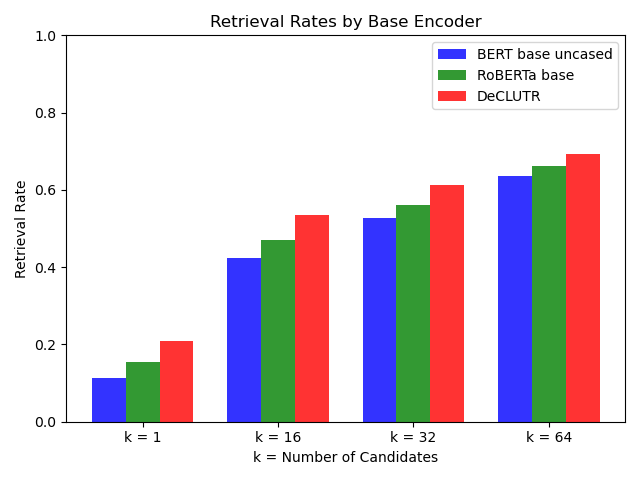
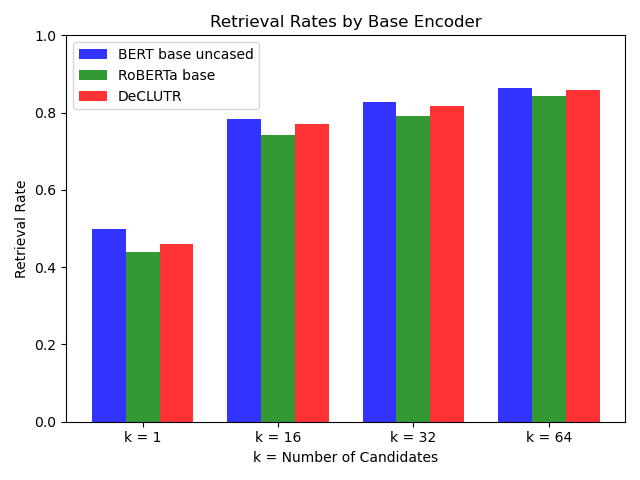
Minor clean up. Generate plots.

diff --git a/src/train_zeshel.py b/src/train_zeshel.py
@@ -33,7 +33,7 @@ def train_zeshel(work_dir: str,
                            base_model_type=base_model_type)
     print('Training examples:', len(trainset))
     print('Validation examples:', len(valset))
-    valset = [valset[i] for i in range(100)]
+    valset = [valset[i] for i in range(500)]
     trainloader = DataLoader(trainset, batch_size=batch_size, num_workers=12, shuffle=True)
     valloader = torch.utils.data.DataLoader(valset, batch_size=batch_size, num_workers=12, shuffle=True)
 
@@ -47,7 +47,7 @@ def train_zeshel(work_dir: str,
         save_top_k=2,
         verbose=True,
         dirpath=os.path.join(work_dir, f'checkpoints'),
-        filename='{epoch}-{val_loss:.3f}' + f'_{base_model_type}_{datetime.now().strftime("%m_%d_%H%M_%S")}'
+        filename='{epoch}-{val_loss:.6f}' + f'_{base_model_type}_{datetime.now().strftime("%m_%d_%H%M_%S")}'
     )
     trainer = pl.Trainer(
         gpus=-1 if DEVICE != 'cpu' else 0,

diff --git a/src/generate_plots.py b/src/generate_plots.py
@@ -5,9 +5,9 @@ import numpy as np
 
 # data to plot
 n_groups = 4
-retrieval_rate_bert = (0.1133, 0.4245, 0.5283, 0.6354)
-retrieval_rate_roberta = (0.1551, 0.47, 0.5614, 0.6613)
-retrieval_rate_declutr = (0.2082, 0.5343, 0.6139, 0.6923)
+retrieval_rate_bert = (0.4992, 0.7839, 0.8262, 0.8643)
+retrieval_rate_roberta = (0.4401, 0.7413, 0.7903, 0.8423)
+retrieval_rate_declutr = (0.4606, 0.771, 0.8172, 0.8587)
 
 # create plot
 fig, ax = plt.subplots()

diff --git a/src/train_zeshel_gcp.py b/src/train_zeshel_gcp.py
@@ -35,7 +35,7 @@ def parse_cli_args():
     parser.add_argument(
         "--val-check-interval",
         type=int,
-        default=100
+        default=300
     )
     parser.add_argument(
         "--limit-train-batches",

diff --git a/src/train_zeshel_local.py b/src/train_zeshel_local.py
@@ -25,7 +25,7 @@ def parse_cli_args():
     parser.add_argument(
         "--val-check-interval",
         type=int,
-        default=100
+        default=300
     )
     parser.add_argument(
         "--limit-train-batches",
